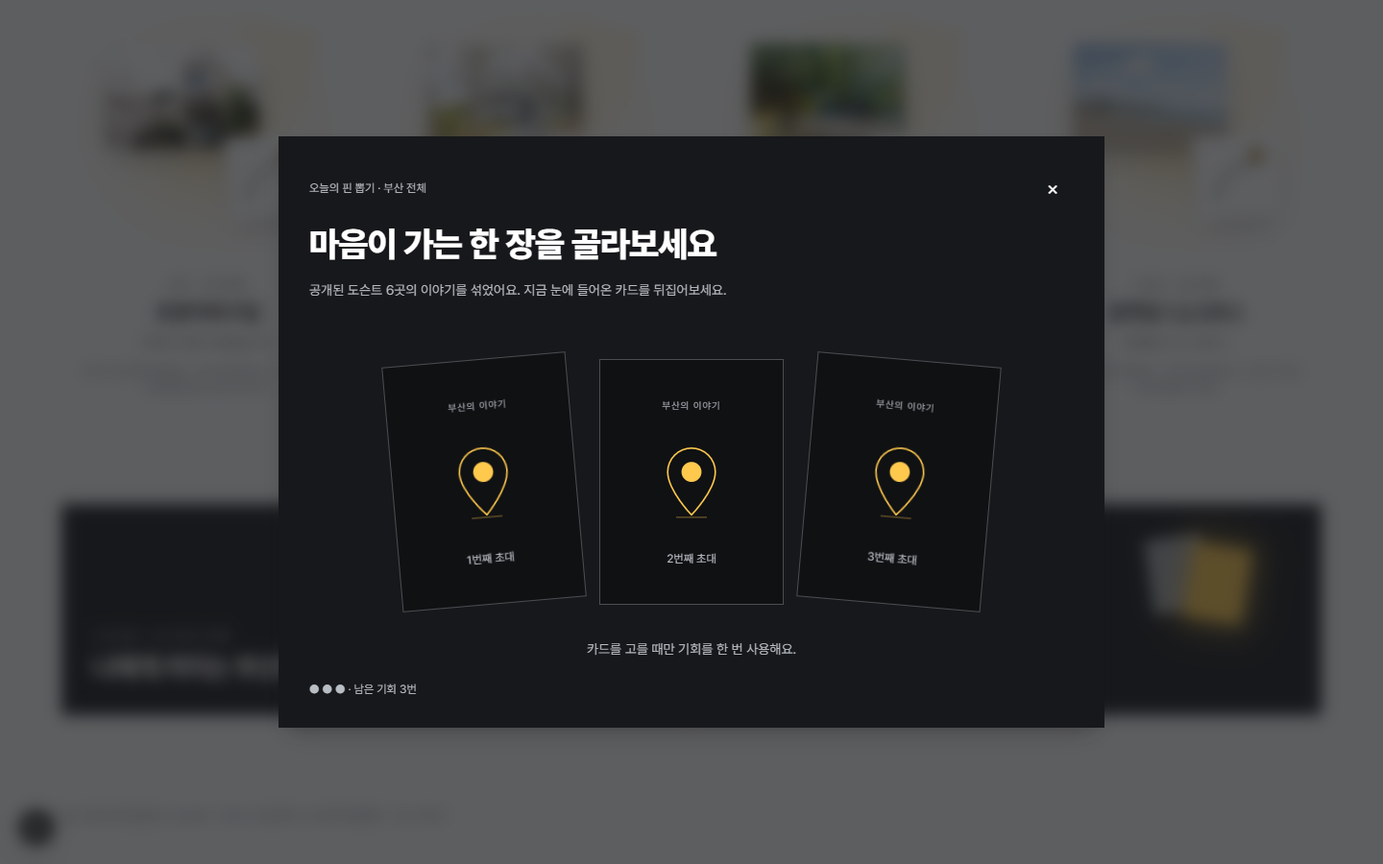
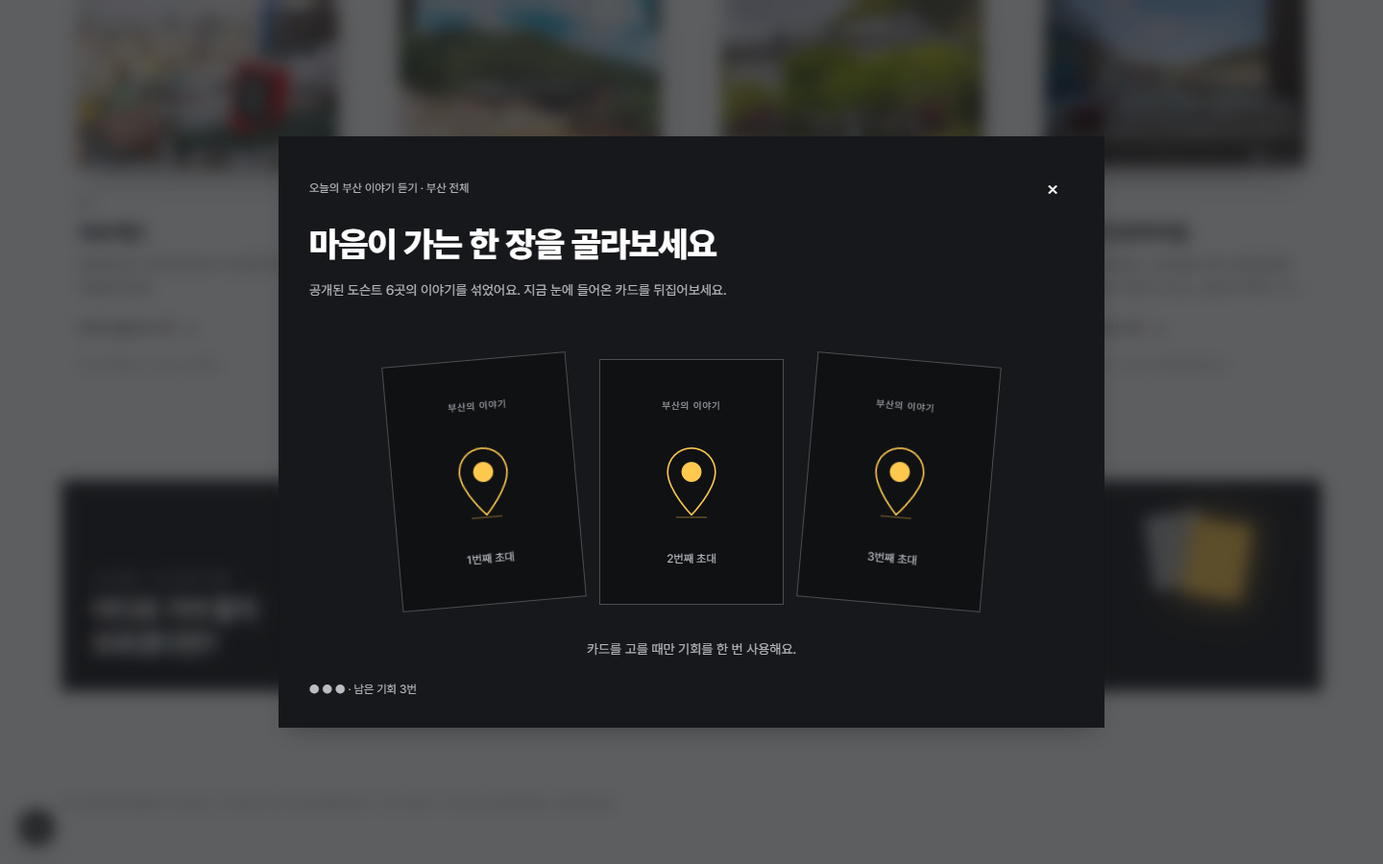
feat(home): 이야기 카드 정렬과 문구 및 셔플·상세 사진 규격 정리

diff --git a/src/app/_home/PinDraw.tsx b/src/app/_home/PinDraw.tsx
@@ -2,13 +2,13 @@
 
 import Image from "next/image";
 import Link from "next/link";
-import { useEffect, useRef, useState, useSyncExternalStore } from "react";
+import { useEffect, useRef, useState, useSyncExternalStore, type CSSProperties } from "react";
 import { tripActions, useTrip } from "@/lib/trip/store";
 import { regionName } from "./regions";
 import { dealPins, pinPool, PIN_TRIES, type PinPlace } from "./pinModel";
 import "./pinDraw.css";
 
-type Draw = { scope: string | null; phase: "choosing" | "rolling" | "result"; hand: PinPlace[]; picked: number | null; place: PinPlace | null };
+type Draw = { scope: string | null; phase: "shuffling" | "choosing" | "rolling" | "result"; hand: PinPlace[]; picked: number | null; place: PinPlace | null };
 const subscribeMounted = () => () => {};
 const licenseName = (license: string) => license === "Type3" ? "공공누리 제3유형 · 변경금지" : license === "Type1" ? "공공누리 제1유형" : "이용 유형 확인 필요";
 
@@ -39,6 +39,7 @@ export function PinDraw({ places }: { places: PinPlace[] }) {
   const available = pinPool(places, trip.regions, null);
   const eligible = pinPool(places, trip.regions, lastId);
   const rolling = draw?.phase === "rolling";
+  const shuffling = current?.phase === "shuffling";
   useEffect(() => () => { if (timer.current) clearTimeout(timer.current); }, []);
   useEffect(() => {
     if (!open) return;
@@ -52,9 +53,18 @@ export function PinDraw({ places }: { places: PinPlace[] }) {
   const prepare = () => {
     if (timer.current) clearTimeout(timer.current);
     busy.current = false;
-    handReady.current = true;
+    const hand = used.current < PIN_TRIES ? dealPins(pinPool(places, trip.regions, last.current)) : [];
+    const shuffle = hand.length > 1 && !window.matchMedia("(prefers-reduced-motion: reduce)").matches;
+    handReady.current = !shuffle;
+    busy.current = shuffle;
     setNotice(null);
-    setDraw({ scope, phase: "choosing", hand: used.current < PIN_TRIES ? dealPins(pinPool(places, trip.regions, last.current)) : [], picked: null, place: null });
+    setDraw({ scope, phase: shuffle ? "shuffling" : "choosing", hand, picked: null, place: null });
+    if (shuffle) timer.current = setTimeout(() => {
+      busy.current = false;
+      if (activeScope.current !== scope) return;
+      handReady.current = true;
+      setDraw(previous => previous?.scope === scope && previous.phase === "shuffling" ? { ...previous, phase: "choosing" } : previous);
+    }, 950);
     requestAnimationFrame(() => heading.current?.focus({ preventScroll: true }));
   };
   const pick = (index: number) => {
@@ -78,12 +88,12 @@ export function PinDraw({ places }: { places: PinPlace[] }) {
   const place = current?.phase === "result" ? current.place : null;
   const added = place ? trip.candidates.includes(place.id) : false;
   return <>
-    <button ref={trigger} type="button" disabled={!mounted} onClick={(event) => { event.currentTarget.focus({ preventScroll: true }); if (!draw || draw.scope !== scope) prepare(); setOpen(true); }} aria-haspopup="dialog" aria-expanded={open} aria-controls="pin-draw-panel"
+    <button ref={trigger} type="button" disabled={!mounted} onClick={(event) => { event.currentTarget.focus({ preventScroll: true }); if (!draw || draw.scope !== scope || draw.phase === "choosing" || draw.phase === "shuffling") prepare(); setOpen(true); }} aria-haspopup="dialog" aria-expanded={open} aria-controls="pin-draw-panel"
       className="group relative flex min-h-42 flex-col justify-end gap-1.5 overflow-hidden bg-room p-4 text-left text-on-room lg:min-h-55 lg:p-8">
       <span aria-hidden="true" className="absolute top-4.5 left-12.5 h-13 w-10 -rotate-8 bg-on-room-subtle transition-transform group-hover:-translate-y-1 motion-reduce:transform-none lg:top-8.5 lg:right-30 lg:left-auto lg:h-19.5 lg:w-15" />
       <span aria-hidden="true" className="absolute top-6 left-19 h-13 w-10 rotate-9 bg-light shadow-glow transition-transform group-hover:rotate-12 motion-reduce:transform-none lg:top-11 lg:right-19.5 lg:left-auto lg:h-19.5 lg:w-15" />
       <span className="relative text-xs text-on-room-muted lg:text-[13px]">{tries >= PIN_TRIES ? "뽑은 핀 다시 보기" : `이야기 카드 한 장 · 남은 기회 ${PIN_TRIES - tries}번`}</span>
-      <span className="relative font-display text-[19px] leading-tight font-extrabold tracking-tight lg:text-[28px]">오늘의<br className="lg:hidden" /> 핀 뽑기</span>
+      <span className="relative font-display text-[19px] leading-tight font-extrabold tracking-tight lg:text-[28px]">오늘의 부산<br className="lg:hidden" /> 이야기 듣기</span>
     </button>
     {open && <dialog ref={dialog} id="pin-draw-panel" aria-labelledby="pin-draw-title" onCancel={close}
       onKeyDown={(event) => {
@@ -94,18 +104,19 @@ export function PinDraw({ places }: { places: PinPlace[] }) {
         else if (!event.shiftKey && document.activeElement === end) { event.preventDefault(); first?.focus(); }
       }}
       className="fixed inset-0 m-auto h-dvh max-h-dvh w-full max-w-none overflow-y-auto bg-room p-5 text-on-room shadow-paper backdrop:bg-room/70 backdrop:backdrop-blur-sm lg:h-fit lg:max-h-[90dvh] lg:w-[calc(100%-4rem)] lg:max-w-[860px] lg:p-8">
-      <div className="flex items-center justify-between gap-3"><p className="text-xs text-on-room-muted">오늘의 핀 뽑기 · {trip.regions.length ? trip.regions.map(regionName).join(" · ") : "부산 전체"}</p><button type="button" onClick={close} aria-label="핀 뽑기 닫기" className="min-h-tap min-w-tap text-xl">×</button></div>
-      <h2 id="pin-draw-title" ref={heading} tabIndex={-1} className="mt-3 font-display text-2xl leading-snug font-extrabold tracking-tight outline-none lg:text-4xl">{place ? "당신에게 도착한 오늘의 핀" : rolling ? "어떤 이야기가 펼쳐질까요?" : "마음이 가는 한 장을 골라보세요"}</h2>
-      {current && (current.phase === "choosing" || current.phase === "rolling") && current.hand.length > 0 ? <>
-        <p className="mt-3 text-sm leading-relaxed text-on-room-muted">공개된 도슨트 {available.length}곳의 이야기를 섞었어요.{current.hand.length === 1 ? " 이 지역에는 한 곳의 이야기가 기다리고 있어요." : " 지금 눈에 들어온 카드를 뒤집어보세요."}</p>
-        <div className="mt-7 flex min-h-60 items-center justify-center gap-3 py-4 lg:mt-9 lg:gap-6 lg:py-6" aria-label="뒤집을 이야기 카드">
-          {current.hand.map((card, index) => <button key={card.id} type="button" onClick={() => pick(index)} disabled={rolling} data-pin-card={index} data-picked={rolling && current.picked === index} data-away={rolling && current.picked !== index}
+      <div className="flex items-center justify-between gap-3"><p className="text-xs text-on-room-muted">오늘의 부산 이야기 듣기 · {trip.regions.length ? trip.regions.map(regionName).join(" · ") : "부산 전체"}</p><button type="button" onClick={close} aria-label="이야기 카드 닫기" className="min-h-tap min-w-tap text-xl">×</button></div>
+      <h2 id="pin-draw-title" ref={heading} tabIndex={-1} className="mt-3 font-display text-2xl leading-snug font-extrabold tracking-tight outline-none lg:text-4xl">{place ? "당신에게 도착한 오늘의 핀" : shuffling ? "부산의 이야기를 섞고 있어요" : rolling ? "어떤 이야기가 펼쳐질까요?" : "마음이 가는 한 장을 골라보세요"}</h2>
+      {current && (current.phase === "shuffling" || current.phase === "choosing" || current.phase === "rolling") && current.hand.length > 0 ? <>
+        <p className="mt-3 text-sm leading-relaxed text-on-room-muted">공개된 도슨트 {available.length}곳의 이야기를 {shuffling ? "섞고 있어요." : "섞었어요."}{current.hand.length === 1 ? " 이 지역에는 한 곳의 이야기가 기다리고 있어요." : !shuffling && " 지금 눈에 들어온 카드를 뒤집어보세요."}</p>
+        <div className="mt-7 flex min-h-60 items-center justify-center gap-3 py-4 lg:mt-9 lg:gap-6 lg:py-6" aria-label="뒤집을 이야기 카드" aria-busy={shuffling}>
+          {current.hand.map((card, index) => <button key={card.id} type="button" onClick={() => pick(index)} disabled={rolling || shuffling} data-pin-card={index} data-shuffling={shuffling} data-picked={rolling && current.picked === index} data-away={rolling && current.picked !== index}
+            style={{ "--pin-stack-x": `${((current.hand.length - 1) / 2 - index) * 110}%`, "--pin-wiggle": `${index % 2 ? 28 : -28}px`, "--pin-shuffle-angle": `${index % 2 ? 10 : -10}deg`, "--pin-deal-turn": `${index === 0 ? -5 : index === current.hand.length - 1 ? 5 : 0}deg`, "--pin-depth": index + 1 } as CSSProperties}
             aria-label={`${index + 1}번째 이야기 카드 뒤집기`} className="pin-story-card h-44 min-w-tap max-w-48 flex-1 lg:h-64">
             <span className="pin-story-card-inner"><span className="pin-story-card-front bg-room-dim px-2 ring-1 ring-on-room-subtle/40 ring-inset"><span className="text-[10px] tracking-widest text-on-room-subtle">부산의 이야기</span><PinIcon className="my-4 h-20 w-16 text-light lg:my-6 lg:h-24" /><span className="text-xs text-on-room-muted">{index + 1}번째 초대</span></span>
               <span aria-hidden="true" className="pin-story-card-back bg-light px-2 text-ink lg:px-4"><PinIcon className="mb-3 h-12 w-10" /><span className="font-display text-sm leading-snug font-bold lg:text-lg">{current.picked === index ? card.name : ""}</span></span></span>
           </button>)}
         </div>
-        <p role="status" className="mt-3 min-h-6 text-center text-sm text-on-room-muted">{rolling ? "고른 카드에 조명이 켜지고 있어요…" : "카드를 고를 때만 기회를 한 번 사용해요."}</p>
+        <p role="status" className="mt-3 min-h-6 text-center text-sm text-on-room-muted">{shuffling ? "카드를 섞은 뒤 한 장씩 펼쳐드릴게요." : rolling ? "고른 카드에 조명이 켜지고 있어요…" : "카드를 고를 때만 기회를 한 번 사용해요."}</p>
       </> : place ? <div className="mt-5 grid items-start gap-5 lg:grid-cols-2 lg:gap-7">
         <figure><div className="flex h-48 items-center justify-center bg-room-cell lg:h-60">{place.image ? <Image src={place.image.url} alt={`${place.name} 사진`} width={640} height={420} unoptimized className="h-full w-auto max-w-full object-contain" /> : <div className="flex flex-col items-center gap-2 text-on-room-muted"><PinIcon className="h-24 w-20 text-light" /><span className="text-xs">사진 대신, 이야기로 만나보세요</span></div>}</div>{place.image && <figcaption className="mt-2 text-[11px] leading-relaxed text-on-room-subtle">사진 한국관광공사 TourAPI · {licenseName(place.image.license)}</figcaption>}</figure>
         <div className="min-w-0"><span className="pin-draw-stamp mb-3 inline-block bg-light px-2 py-1 text-xs font-bold text-ink">오늘 내 여행에 꽂힐 핀</span><p className="text-xs text-on-room-muted">{regionName(place.region)} · {place.category.split(" > ").at(-1)}</p><h3 className="mt-2 font-display text-2xl font-extrabold">{place.name}</h3><p className="mt-3 text-sm leading-7 text-on-room-muted">{place.summary}</p>

diff --git a/src/app/_home/StoryShelf.tsx b/src/app/_home/StoryShelf.tsx
@@ -20,22 +20,19 @@ export function StoryShelf({ heading, stories }: { heading: string; stories: Sto
       ) : (
       <ul className="no-scrollbar flex snap-x snap-mandatory overflow-x-auto pb-2 lg:grid lg:grid-cols-[repeat(auto-fill,minmax(300px,1fr))] lg:gap-8 lg:overflow-visible">
         {stories.map((story) => (
-          <li key={story.id} className="flex w-75 shrink-0 snap-center flex-col items-center gap-2.5 text-center lg:w-auto">
-            <Link href={story.href} prefetch={false} aria-label={`${story.title} 이야기 읽고 듣기`} data-home-story="" className="group flex w-full flex-col items-center gap-2.5 focus-visible:outline-offset-[-2px]">
+          <li key={story.id} className="flex w-75 shrink-0 snap-center flex-col lg:w-auto">
+            <Link href={story.href} prefetch={false} aria-label={`${story.title} 이야기 들으러 가기`} data-home-story="" className="group flex w-full flex-col gap-4 focus-visible:outline-offset-[-2px]">
             <StoryArt story={story} />
-            <div className="flex max-w-85 flex-col items-center gap-1.5 px-5">
+            <div data-story-copy="" className="flex w-full flex-col gap-2 px-5 lg:px-4">
               <span className="text-xs text-ink-muted lg:text-[13px]">
-                {regionName(story.region)} · {story.kind}
+                {regionName(story.region)}
               </span>
-              <h3 className="font-display text-xl leading-tight font-bold tracking-[-0.04em] group-hover:underline group-focus-visible:underline lg:text-[22px]">{story.title}</h3>
-              <p className="line-clamp-2 text-sm leading-relaxed text-ink-muted lg:text-[15px]">{story.subtitle}</p>
-              <p className="mt-1 text-[11px] text-ink-subtle">
-                AI 도슨트
-                {story.photo && ` · ${story.photo.credit} (${story.photo.placeName})`}
-              </p>
-              <span className="inline-flex min-h-tap items-center text-sm font-semibold">이야기 읽고 듣기 <span aria-hidden="true" className="ml-2">→</span></span>
+              <h3 className="min-h-7 font-display text-xl leading-7 font-bold tracking-[-0.04em] group-hover:underline group-focus-visible:underline lg:text-[22px]">{story.title}</h3>
+              <p data-story-description="" className="line-clamp-2 h-12 text-sm leading-6 text-ink-muted lg:text-[15px]">{story.subtitle}</p>
+              <span className="inline-flex min-h-tap items-center text-sm font-semibold">이야기 들으러 가기 <span aria-hidden="true" className="ml-2">→</span></span>
             </div>
             </Link>
+            {story.photo && <p className="mt-2 px-5 text-[10px] leading-4 text-ink-subtle lg:px-4">{story.photo.credit}</p>}
           </li>
         ))}
       </ul>
@@ -46,7 +43,7 @@ export function StoryShelf({ heading, stories }: { heading: string; stories: Sto
 
 function StoryArt({ story }: { story: StoryCard }) {
   return (
-    <div className="relative h-62.5 w-67.5 lg:h-70 lg:w-75">
+    <div data-story-art="" className="relative flex h-48 w-full items-center justify-center px-5 py-3 lg:h-52 lg:px-4">
       <div
         aria-hidden="true"
         className="absolute inset-0 rounded-full"
@@ -61,15 +58,15 @@ function StoryArt({ story }: { story: StoryCard }) {
         className="absolute inset-0 rounded-full opacity-0 transition-opacity duration-300 group-hover:opacity-100 group-focus-visible:opacity-100 motion-reduce:transition-none"
         style={{ background: "radial-gradient(closest-side, color-mix(in srgb, var(--color-light) 65%, transparent), transparent 85%)" }}
       />
-      <div aria-hidden="true" className="absolute top-7 left-41 size-18 rotate-9 bg-lit lg:left-45 lg:size-20" />
+      <div aria-hidden="true" className="absolute top-5 right-6 h-24 w-20 rotate-9 bg-lit" />
       {story.photo ? (
         <Image
           src={story.photo.url}
           alt={`${story.photo.placeName} 사진`}
-          width={240}
-          height={180}
+          width={480}
+          height={320}
           unoptimized
-          className="absolute top-12 left-1/2 h-auto w-36 -translate-x-1/2 shadow-photo lg:w-40"
+          className="relative h-full w-full object-contain shadow-photo"
         />
       ) : (
         <div aria-hidden="true" className="absolute top-10 left-14 h-37.5 w-29.5 -rotate-5 bg-lit" />

diff --git a/src/app/docent/_components/DocentDetail.tsx b/src/app/docent/_components/DocentDetail.tsx
@@ -121,14 +121,13 @@ export function DocentDetail({ docent, nearby }: { docent: Docent; nearby: Nearb
   return (
     <div className="lg:grid lg:grid-cols-[minmax(0,1fr)_320px] lg:gap-16">
       <article className="min-w-0 pb-56 lg:pb-0">
-        {docent.image && (
           <figure className="flex flex-col items-start">
-            <span className="flex h-64 w-full items-center justify-center bg-line lg:h-96">
-              <Image src={docent.image.url} alt={`${docent.placeName} 사진`} width={960} height={640} unoptimized priority className="h-full w-auto max-w-full object-contain" />
+            <span data-docent-photo="" className="flex h-60 w-full items-center justify-center bg-line lg:h-90">
+              {docent.image ? <Image src={docent.image.url} alt={`${docent.placeName} 사진`} width={960} height={640} unoptimized priority className="h-full w-full object-contain" />
+                : <span className="text-sm text-ink-muted">등록된 사진이 없어요.</span>}
             </span>
-            <figcaption className="mt-2 text-xs text-ink-subtle">사진 한국관광공사 TourAPI · 공공누리 {docent.image.license === "Type3" ? "제3유형(변경금지)" : "제1유형"}</figcaption>
+            {docent.image && <figcaption className="mt-2 text-xs text-ink-subtle">사진 한국관광공사 TourAPI · 공공누리 {docent.image.license === "Type3" ? "제3유형(변경금지)" : "제1유형"}</figcaption>}
           </figure>
-        )}
         <p className="mt-6 text-sm text-ink-muted">{regionName(docent.region)} · {docent.category.split(" > ").at(-1)}</p>
         <h1 className="mt-1 font-display text-3xl font-extrabold tracking-tight lg:text-5xl">{docent.placeName}</h1>
         {docent.notes.map((note) => <p key={note} className="mt-2 text-xs text-ink-subtle">{note}</p>)}

diff --git a/src/app/_home/pinDraw.css b/src/app/_home/pinDraw.css
@@ -10,6 +10,14 @@
 .pin-story-card[data-picked=true] { transform: translateY(-8px) scale(1.04); }
 .pin-story-card:not(:disabled):hover { transform: translateY(-8px) rotate(-2deg); }
 .pin-story-card:focus-visible { outline: 2px solid var(--color-light); outline-offset: 5px; }
+@keyframes pin-card-shuffle {
+  0% { transform: translateX(var(--pin-stack-x)) rotate(0deg) scale(.86); }
+  24% { transform: translateX(calc(var(--pin-stack-x) + var(--pin-wiggle))) rotate(var(--pin-shuffle-angle)) scale(.88); }
+  48% { transform: translateX(calc(var(--pin-stack-x) - var(--pin-wiggle))) rotate(0deg) scale(.88); }
+  66% { transform: translateX(var(--pin-stack-x)) rotate(var(--pin-shuffle-angle)) scale(.9); }
+  100% { transform: translateX(0) rotate(var(--pin-deal-turn)) scale(1); }
+}
+.pin-story-card[data-shuffling=true] { z-index: var(--pin-depth); animation: pin-card-shuffle .95s cubic-bezier(.4,.1,.25,1) both; }
 .pin-draw-stamp { animation: pin-draw-stamp .45s cubic-bezier(.2,.9,.3,1.2) both; }
 @keyframes pin-draw-stamp { from { opacity: 0; transform: translateY(-18px) rotate(-14deg) scale(1.4); } to { opacity: 1; transform: translateY(0) rotate(-6deg) scale(1); } }
 @media (prefers-reduced-motion: reduce) {
@@ -17,4 +25,5 @@
   .pin-story-card:not(:disabled):hover { transform: none; }
   .pin-story-card[data-away=true],.pin-story-card[data-picked=true],.pin-story-card:first-child:not(:only-child):not([data-picked=true]):not([data-away=true]),.pin-story-card:last-child:not(:only-child):not([data-picked=true]):not([data-away=true]) { transform: none; }
   .pin-draw-stamp { animation: none; }
+  .pin-story-card[data-shuffling=true] { animation: none; }
 }

diff --git a/src/app/_home/HomeView.tsx b/src/app/_home/HomeView.tsx
@@ -77,8 +77,8 @@ export function HomeView({ regionCounts, weekly, storiesByRegion, pinPlaces }: P
             />
             <span className="relative text-xs text-on-room-muted lg:text-[13px]">다섯 장면 · 나의 이야기 취향</span>
             <span className="relative font-display text-[19px] leading-tight font-extrabold tracking-[-0.045em] lg:text-[28px]">
-              나에게 켜지는
-              <br className="lg:hidden" /> 부산의 이야기
+              어디로 가야 할지
+              <br /> 모르겠다면?
             </span>
           </TasteLauncher>
           <PinDraw places={pinPlaces} />

diff --git a/docs/HANDOFF.md b/docs/HANDOFF.md
@@ -1,6 +1,6 @@
 # HANDOFF — 지금 상태
 
-## 홈 이야기 썸네일 장식 제거·호버 조명 (2026-10-25, 최신)
+## 홈 카드 정렬·배너 문구·셔플·도슨트 사진 규격 (2026-10-25, 최신)
 - 현재 브랜치 **`feat/home-map-illustrations`**, 기준 `origin/main` = `bd455d3`(배포 인계 문서 병합 이후). 사용자가 홈의 남은 명소 그림 완성과 지도 일러스트 수정을 요청했다.
 - **사용자 최종 방향: 첨부 참고처럼 부산의 실제 해안선·구·군 경계를 살린 지도.** 임의의 다각형으로 만든 퍼즐형 윤곽은 사용자가 거부했다. 작은 구를 키우려고 윤곽·상대 크기를 변형하지 않는다. 이전 블록형 지도 결정보다 이 지시가 우선한다.
 - `swcho/korea-maps`의 SGIS **2020년** 부산 경계 SVG에서 16개 path를 그대로 추출해 사용했다. 바다·섬·구별 크기 유지. 출처·고정 커밋·MIT 원문은 `data/maps/README.md`, `data/maps/LICENSE`, 경계는 `busan-boundaries.json`. 첨부 상업 지도 이미지는 복사하지 않았다.
@@ -15,6 +15,11 @@
 - 검증: **테스트 150개·빌드 통과**, 린트 오류 0·기존 취향 음성 경고 1건. Chrome 390/1440에서 기존 16개 경계 조작·핀/물결·조명·저장 검사 통과. 확대/드롭다운 없음·지도 내부 스크롤 없음·페이지 가로 넘침 없음 확인. 홈 4개 카드의 실제 상세 응답/장소 일치, 카드 클릭 → 도슨트 상세 → 목록 이동, 해설 없는 지역의 탐색 링크 확인. 경로/날씨 요청 0건.
 - 재현 `node scripts/qa-home-map.mjs`. 화면 `docs/design/home-map/map-{default,detail,selected,all,focus,drop,light,ripple}-{390,1440}.png`, `home-stories-{390,1440}.png`. `map-zoom-*`는 확대 기능이 있던 과거 기록이다. 구현은 홈 화면 폴더와 홈 전용 서버 데이터/테스트에 한정.
 - 호버 최신 사진 `docs/design/home-map/home-story-hover-{390,1440}.png`. 390/1440에서 썸네일 SVG 장식 없음·호버 전/후 조명 변화·키보드 조명·사진 크기/비율 유지·움직임 줄이기 즉시 전환·기존 도슨트 이동 검증 통과. 테스트 150개·빌드 통과, 린트 기존 경고 1건.
+- 최신 카드 배치: 홈 사진 영역을 390px 높이 192px/PC 208px로 통일하고 사진을 크게 표시했다. 글은 왼쪽 정렬로 **구 이름 → 장소명 → 설명 2줄(넘치면 말줄임) → ‘이야기 들으러 가기 →’**. 설명은 48px 두 줄로 고정해 버튼 위치를 맞췄다. 사진 출처·유형은 이 네 항목 뒤 별도 작은 글씨로 보존한다. 호버는 여전히 뒤 조명만 바꾼다.
+- 취향 테스트 배너는 **‘어디로 가야 할지 모르겠다면?’**, 핀 뽑기 입구/모달 표기는 **‘오늘의 부산 이야기 듣기’**로 변경했다. 선택할 카드가 있는 모달 열기·다른 카드 받기에서 약 0.95초 동안 카드를 포개 섞고 펼친다. 셔플 중 선택 불가·기회 차감 없음. 0/1장 및 움직임 줄이기는 셔플 생략. 마지막 결과 재열기·3회 제한·직전 중복 제외·명시 담기 규칙 유지.
+- 도슨트 상세 `src/app/docent/_components/DocentDetail.tsx`: 사진 영역을 모든 6곳에서 휴대폰 240px/PC 360px 높이로 맞추고 사진은 그 영역 안에 `object-contain`으로 표시한다. 25의용단은 사진이 없어 같은 크기의 ‘등록된 사진이 없어요’ 안내를 표시. 원본 사진 자르기·왜곡·덧칠 없음.
+- 최신 검증: 테스트 150개·빌드 통과, 린트 기존 경고 1건. Chrome 390/1440에서 카드 정보 4단계·설명 두 줄·홈 사진 영역 크기 동일·6개 상세 사진 영역 동일·사진 없음 안내 확인. `node scripts/qa-pin.mjs`로 셔플·선택 잠금·차감 없음과 기존 3회/닫기/저장/0·1곳/움직임 줄이기 검증 통과. 경로/날씨 요청 0건.
+- 최신 사진: `docs/design/home-map/home-stories-*`, `docent-photo-{390,1440}.png`, `docs/design/random-pin/cards-shuffle-{390,1440}.png`. 이번 수정은 홈 폴더·도슨트 상세·검증/문서에 한정, 공통 파일은 변경하지 않았다.
 - 남은 것: 사용자 최종 검토, PR 병합 후 배포 확인. 배포 사이트에는 아직 이번 변경을 반영하지 않았다. 홈 첫 문구·이번 주 수동 선정 기준·공통 메뉴 정리는 이번 범위 밖이다.
 
 ## Vercel 첫 배포·지도 표시 확인 (2026-10-25)
@@ -39,7 +44,7 @@
 
 ## 다음 에이전트에게
 - 먼저 이 문서 맨 위와 `AGENTS.md`, `docs/DECISIONS.md`를 읽고 실제 git 상태/원격 병합 여부를 확인한다. 현재는 홈 지도 작업 `feat/home-map-illustrations`이며 과거 절의 브랜치는 당시 기록이다. 핀 뽑기 PR #19와 배포 인계 문서는 이미 main에 병합됐다.
-- 현재 메인은 실제 부산 윤곽·넓은 구의 그림·핀 낙하/물결·노란 조명·도슨트 카드 연결까지 반영. **블록·퍼즐 형태·이름 드롭다운·지도 확대를 다시 넣지 않는다.** 작은 구 아이콘은 생략한다. 홈 이야기 카드는 원문 대신 공개 승인 도슨트를 사용하며 실제 상세로 연결한다. 다음 범위는 사용자와 정한다.
+- 현재 메인은 실제 부산 윤곽·핀/물결·노란 조명·도슨트 카드 연결·사진/글 정렬·배너 문구·이야기 카드 셔플까지 반영. **블록·퍼즐 형태·드롭다운·지도 확대를 다시 넣지 않는다.** 홈 카드 정보 순서는 구 → 장소명 → 설명 두 줄 → 이야기 들으러 가기. 사진 출처는 별도 보존, 상세 사진 영역도 표준화했다. 다음 범위는 사용자와 정한다.
 - 사용자 취향: 단순히 작동하는 화면보다 직접 고르는 재미와 도슨트/핀 콘셉트를 원함. 의미 없는 여백·긴 세로 목록·홈과 같은 시작 화면을 피한다. 홈을 늘리는 인라인 랜덤 결과로 되돌리지 않는다.
 - 배포 주소 **https://pinday-five.vercel.app/**, 로컬 주소 `http://localhost:3000/`. 지도는 사용자가 배포 환경에서 표시를 확인했지만 나머지 전체 흐름은 배포 환경에서 아직 미검증이다. 핀 뽑기 최신 캡처는 `cards-*`, 이전 접두사 없는 사진은 과거 버전이다. 자세한 검증/재현법 `docs/RANDOM_QA.md`, `scripts/qa-pin.mjs` 참고.
 - 알려진 한계: 승인 해설 6곳이므로 일부 지역 0/1장, 새로고침 시 뽑기 3회 초기화(페이지 기준), 기존 취향 음성 effect 린트 경고 1건. 한국어 음성은 실제 기기 추가 확인 필요.

diff --git a/docs/DECISIONS.md b/docs/DECISIONS.md
@@ -179,3 +179,6 @@
 - 2026-10-25 사용자는 원문/해설 구분 대신 ‘다른 메뉴와 이어질 수 있도록’ 요청했다. 홈 카드의 사진·제목·설명을 누르면 **같은 장소의 AI 도슨트 상세**, ‘전체 보기’는 AI 도슨트 목록으로 연결한다. 듣기는 상세 화면에서 사용자가 눌러 시작한다.
 - 2026-10-25 이를 위해 홈 카드 데이터는 공개 승인·자동 검사 통과한 도슨트만 사용한다. 초기 ‘이번 주’는 사진이 있고 서로 다른 구의 최대 4곳을 고른 임시 목록이다. 지역 선택 시 그 지역의 공개 해설만 표시하며, 없으면 준비 중 안내와 선택 지역의 장소 탐색 링크를 제공한다. 승인 해설이 없는 원문 카드를 억지로 다른 장소 해설에 연결하지 않는다. 기존 `data/stories` 자료는 보존한다.
 - 2026-10-25 사용자 요청: 썸네일 앞 지도·핀 장식을 제거하고 호버 인터랙션 추가. 앞쪽 흰 종이 장식을 빼고 사진을 가운데 정렬한다. 호버·키보드 포커스에 사진 뒤 노란 조명만 밝아지게 하며 사진은 확대·자르기·기울이기·색 변경 없이 원래 비율을 유지한다. 움직임 줄이기는 즉시 전환.
+- 2026-10-25 후속 사용자 요청: 사진과 텍스트 사이 위치를 정리하고 기본 사진 크기를 키운다(호버 확대와는 별개). 글 순서는 **위치(구) → 위치명 → 설명 두 줄·말줄임 → 이야기 들으러 가기**. 사진 출처/유형은 별도 줄로 보존해 이 순서 사이에 끼우지 않는다.
+- 2026-10-25 취향 테스트 입구 문구는 **‘어디로 가야 할지 모르겠다면?’**, 랜덤 이야기 입구 문구는 **‘오늘의 부산 이야기 듣기’**. 선택할 카드를 처음/다시 열면 포개 섞은 뒤 펼치는 약 0.95초 연출을 추가한다. 기회 차감은 계속 카드 선택 때만, 셔플 중 선택 방지, 움직임 줄이기·0/1장은 연출 생략. 결과 재열기는 유지하며 자동 음성 재생하지 않는다.
+- 2026-10-25 도슨트 상세 사진 표시 영역을 휴대폰 240px·PC 360px 높이로 통일한다. 원본 비율을 유지하는 contain을 사용하고 사진 없는 장소는 같은 크기의 안내를 표시한다.

diff --git a/docs/RANDOM_QA.md b/docs/RANDOM_QA.md
@@ -1,4 +1,6 @@
-# 오늘의 핀 뽑기 — 2026-10-25
+# 오늘의 부산 이야기 듣기 — 2026-10-25
+
+> 최신 변경: 입구·모달 문구를 ‘오늘의 부산 이야기 듣기’로 변경. 선택할 카드가 있는 모달을 열면 약 0.95초 카드 포개기 → 섞기 → 펼치기 연출을 적용했다. 셔플 중 선택 불가·기회 차감 없음, 움직임 줄이기·0/1장은 생략. 결과 재열기·이야기 상세의 명시적 듣기 시작은 유지한다.
 
 브랜치 `feat/random-pin`, 기준 main `d4fac7c`(취향 테스트 PR #18 병합). 사용자의 ‘기능만 있고 재미가 부족하다’는 피드백으로 홈 아래 결과를 제거하고 카드 선택 모달로 바꿨다.
 
@@ -23,3 +25,10 @@
 ## 남은 검토
 - 실제 기기에서 카드 선택·전환의 감각과 문구를 사용자 확인.
 - 승인 해설 6곳뿐이므로 지역별 이야기 부족은 안내로 처리. 콘텐츠 확대는 별도 근거 검수 작업.
+
+## 카드 셔플 추가 검증
+
+- `Draw.phase`에 `shuffling` 추가. 950ms 동안 카드가 가운데 포개져 좌우로 섞인 뒤 기존 3장 배치로 펼쳐진다. 연출은 자체 상징 카드에만 적용한다.
+- 셔플 중 선택을 막으며 횟수는 변하지 않는다. 닫고 선택 카드 재열기·다른 카드 받기도 연출, 결과 화면 재열기는 결과 유지. 지역 변경 때 이전 셔플이 다른 지역 결과를 덮어쓰지 않도록 범위를 확인한다.
+- `node scripts/qa-pin.mjs`의 390/1440 검증 통과: 셔플 애니메이션·비활성 선택·열기/셔플 차감 없음, 기존 카드 뒤집기·3회 제한·마지막 결과·저장 유지·0/1곳·움직임 줄이기. 테스트 150개·빌드 통과, 린트 기존 경고 1건. 경로/날씨 요청 0건.
+- 사진 `docs/design/random-pin/cards-shuffle-{390,1440}.png`. 기존 cards-*도 최신 문구로 갱신.

diff --git a/docs/HOME_QA.md b/docs/HOME_QA.md
@@ -135,3 +135,11 @@ Chrome 개발 서버와 배포용 서버에서 390px·1440px 확인:
 - 앞쪽 흰 지도/핀 종이와 SVG 장식 제거, 사진 가운데 정렬. 뒤쪽 장식과 원형 조명 유지.
 - Chrome 390/1440에서 카드 호버 전/후 조명 opacity 0→1, 키보드 포커스에서도 같은 효과 확인. 전후 사진 크기·비율 동일, 움직임 줄이기에서는 transition-property가 none으로 즉시 전환된다.
 - 캡처 `docs/design/home-map/home-story-hover-{390,1440}.png`. 도슨트 상세·목록 이동과 기존 지도 검사도 통과. 테스트 150개·빌드 통과, 린트 기존 경고 1건.
+
+### 최신 검증 — 카드 사진/정보 정렬·배너·상세 사진
+
+- 홈 카드 사진 영역 192px/208px(휴대폰/PC) 높이, 이미지 영역 크기가 4개 카드에서 동일. 원본 비율을 유지한다. 사진을 키우고 아래 글을 왼쪽에 맞췄다.
+- 390/1440에서 구 이름 → 장소명 → 두 줄 설명 → 이야기 들으러 가기 순서, 분류 제거, 설명 48px·line-clamp 2 확인. 출처/유형은 별도 작은 글씨로 유지. 호버 조명·이야기 이동 유지.
+- 배너 ‘어디로 가야 할지 모르겠다면?’·‘오늘의 부산 이야기 듣기’ 확인. 모달 셔플은 `docs/RANDOM_QA.md` 최신 기록 참고.
+- 승인된 도슨트 6곳을 각각 열어 사진 영역 폭/높이가 같은지 확인. 사진 5곳은 contain·영역 전체 크기, 사진 없는 25의용단은 안내. 사진 `docs/design/home-map/docent-photo-{390,1440}.png`.
+- 테스트 150개·빌드 통과, 린트 기존 경고 1건. 390/1440 브라우저 QA 통과, 외부 경로/날씨 요청 0건.

diff --git a/docs/design/README.md b/docs/design/README.md
@@ -1,6 +1,7 @@
 # 디자인 탐색 기록
 
 ## 홈 실제 경계 지도 (2026-10-25, 최신)
+- 최신 카드 정리: 사진을 크게, 사진/글 간격을 줄이고 글은 왼쪽 정렬. 구 → 장소명 → 설명 두 줄·말줄임 → 이야기 들으러 가기. 출처는 그 뒤 작은 글씨. 배너는 ‘어디로 가야 할지 모르겠다면?’·‘오늘의 부산 이야기 듣기’, 모달에는 카드 포개기/셔플/펼치기 연출 추가. 상세 사진 영역은 모든 6곳에서 같은 크기로 정리. 최신 `home-stories-*`, `docent-photo-*`, `random-pin/cards-shuffle-*` 참고.
 - 이야기 카드 최신 수정: 앞쪽 지도/핀 흰 종이 장식을 빼고 사진 가운데 정렬. 호버/키보드 포커스 때 사진 뒤 조명이 밝아지는 효과만 추가해 원본 사진 비율·색·각도를 유지한다. `home-story-hover-*` 참고.
 - 최신 피드백: 확대 버튼·지도 내부 스크롤 제거, PC 지도 크기와 홈 상단/이야기 앞 여백 축소. 홈 이야기 카드는 승인 도슨트로 교체하여 카드 전체 → 같은 장소 상세, 전체 보기 → 도슨트 목록. 해설 없는 지역은 준비 중 안내와 장소 탐색 연결. `home-stories-*`와 최신 `map-*` 참고, `map-zoom-*`는 과거 기록이다.
 - 추가 피드백: 클릭의 흰 사각 테두리를 제거. 핀을 구 이름 위 가운데로 옮기고 크기를 두 배로 키웠다. 수직으로 툭 떨어진 뒤 두 겹 물결이 퍼지는 모션. 최신 캡처 `map-ripple-*`, 기존 캡처 갱신.
